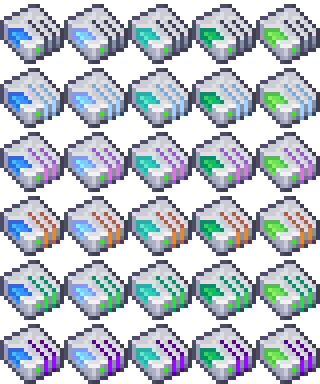
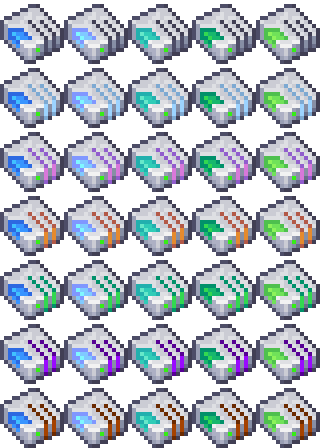
docs(guide): 补雕凿类型切图与表格行
- 源图换成 5x7（含雕凿行），前 6 行逐像素未变
- 切出 5 张 pattern_disk_chiseling_<tier>.png（128x128，与既有规格一致）
- 指南中英两份表格各加雕凿行，正文括注删除
- README 计数 30->35 张、网格 5x6->5x7

diff --git a/src/main/resources/assets/ae2_pattern_disk/ae2guide/items-blocks-machines/pattern_disks.md b/src/main/resources/assets/ae2_pattern_disk/ae2guide/items-blocks-machines/pattern_disks.md
@@ -38,7 +38,7 @@ Patterns can be written with the [ME Pattern Transferer](pattern_transferer.md),
 
 ## Pattern types
 
-A disk accepts one pattern type only. Crafting, processing, smithing and stonecutting patterns each lock the disk to a matching type; with AdvancedAE installed, its advanced processing pattern locks the disk to a type of its own as well. Rechiseled: Applied Energistics' chiseling pattern does the same - it is neither a crafting nor a processing pattern, so it gets a type of its own too (its row is missing from the table below until its corner marks are cut).
+A disk accepts one pattern type only. Crafting, processing, smithing and stonecutting patterns each lock the disk to a matching type; with AdvancedAE installed, its advanced processing pattern locks the disk to a type of its own as well. Rechiseled: Applied Energistics' chiseling pattern does the same - it is neither a crafting nor a processing pattern, so it gets a type of its own too.
 
 The table below shows every combination of type and capacity: rows are pattern types and where they come from, columns are disk capacities. The base layer is the same for every tier; the capacity layer changes with the capacity, and the corner mark changes with the type, so the mark tells you which kind of pattern a disk holds.
 
@@ -50,6 +50,7 @@ The table below shows every combination of type and capacity: rows are pattern t
 | Smithing | Applied Energistics 2 | ![](/assets/pattern_disk_types/pattern_disk_smithing_1k.png) | ![](/assets/pattern_disk_types/pattern_disk_smithing_4k.png) | ![](/assets/pattern_disk_types/pattern_disk_smithing_16k.png) | ![](/assets/pattern_disk_types/pattern_disk_smithing_64k.png) | ![](/assets/pattern_disk_types/pattern_disk_smithing_256k.png) |
 | Stonecutting | Applied Energistics 2 | ![](/assets/pattern_disk_types/pattern_disk_stonecutting_1k.png) | ![](/assets/pattern_disk_types/pattern_disk_stonecutting_4k.png) | ![](/assets/pattern_disk_types/pattern_disk_stonecutting_16k.png) | ![](/assets/pattern_disk_types/pattern_disk_stonecutting_64k.png) | ![](/assets/pattern_disk_types/pattern_disk_stonecutting_256k.png) |
 | Advanced Processing | AdvancedAE | ![](/assets/pattern_disk_types/pattern_disk_adv_processing_1k.png) | ![](/assets/pattern_disk_types/pattern_disk_adv_processing_4k.png) | ![](/assets/pattern_disk_types/pattern_disk_adv_processing_16k.png) | ![](/assets/pattern_disk_types/pattern_disk_adv_processing_64k.png) | ![](/assets/pattern_disk_types/pattern_disk_adv_processing_256k.png) |
+| Chiseling | Rechiseled: Applied Energistics | ![](/assets/pattern_disk_types/pattern_disk_chiseling_1k.png) | ![](/assets/pattern_disk_types/pattern_disk_chiseling_4k.png) | ![](/assets/pattern_disk_types/pattern_disk_chiseling_16k.png) | ![](/assets/pattern_disk_types/pattern_disk_chiseling_64k.png) | ![](/assets/pattern_disk_types/pattern_disk_chiseling_256k.png) |
 
 ## Marks
 

diff --git a/src/main/resources/assets/ae2_pattern_disk/ae2guide/_zh_cn/items-blocks-machines/pattern_disks.md b/src/main/resources/assets/ae2_pattern_disk/ae2guide/_zh_cn/items-blocks-machines/pattern_disks.md
@@ -38,7 +38,7 @@ item_ids:
 
 ## 样板类型
 
-一张磁盘只接受一种样板类型。合成、处理、锻造、切石四种样板各自锁定对应的磁盘类型；装了 AdvancedAE 时，它的高级处理样板同样锁定并显示为独立类型。Rechiseled: Applied Energistics 的雕凿样板也一样——它既不是合成样板也不是处理样板，所以同样占一种独立类型（它的整行要等角标切图备齐后才会出现在下表里）。
+一张磁盘只接受一种样板类型。合成、处理、锻造、切石四种样板各自锁定对应的磁盘类型；装了 AdvancedAE 时，它的高级处理样板同样锁定并显示为独立类型。Rechiseled: Applied Energistics 的雕凿样板也一样——它既不是合成样板也不是处理样板，所以同样占一种独立类型。
 
 下表按「类型 × 容量」列出每一种组合的外观：行是样板类型及其来源，列是磁盘容量。五种容量的底图完全相同，只有容量层随容量变，右上角的角标随类型变，所以看角标颜色就知道盘里装的是哪一类样板。
 
@@ -50,6 +50,7 @@ item_ids:
 | 锻造 | Applied Energistics 2 | ![](/assets/pattern_disk_types/pattern_disk_smithing_1k.png) | ![](/assets/pattern_disk_types/pattern_disk_smithing_4k.png) | ![](/assets/pattern_disk_types/pattern_disk_smithing_16k.png) | ![](/assets/pattern_disk_types/pattern_disk_smithing_64k.png) | ![](/assets/pattern_disk_types/pattern_disk_smithing_256k.png) |
 | 切石 | Applied Energistics 2 | ![](/assets/pattern_disk_types/pattern_disk_stonecutting_1k.png) | ![](/assets/pattern_disk_types/pattern_disk_stonecutting_4k.png) | ![](/assets/pattern_disk_types/pattern_disk_stonecutting_16k.png) | ![](/assets/pattern_disk_types/pattern_disk_stonecutting_64k.png) | ![](/assets/pattern_disk_types/pattern_disk_stonecutting_256k.png) |
 | 高级处理 | AdvancedAE | ![](/assets/pattern_disk_types/pattern_disk_adv_processing_1k.png) | ![](/assets/pattern_disk_types/pattern_disk_adv_processing_4k.png) | ![](/assets/pattern_disk_types/pattern_disk_adv_processing_16k.png) | ![](/assets/pattern_disk_types/pattern_disk_adv_processing_64k.png) | ![](/assets/pattern_disk_types/pattern_disk_adv_processing_256k.png) |
+| 雕凿 | Rechiseled: Applied Energistics | ![](/assets/pattern_disk_types/pattern_disk_chiseling_1k.png) | ![](/assets/pattern_disk_types/pattern_disk_chiseling_4k.png) | ![](/assets/pattern_disk_types/pattern_disk_chiseling_16k.png) | ![](/assets/pattern_disk_types/pattern_disk_chiseling_64k.png) | ![](/assets/pattern_disk_types/pattern_disk_chiseling_256k.png) |
 
 ## 标记
 

diff --git a/README.md b/README.md
@@ -177,7 +177,7 @@ All items are available in the dedicated creative tab **AE2 Pattern Disk**.
 
 The mod ships a GuideME guide (in `assets/ae2_pattern_disk/ae2guide/`) covering the pattern disks (all five tiers on one page), the pattern disk provider (block and panel forms), the pattern transferer, the efficient molecular assembler, the batch assembler, the pattern disk encoding terminal and the pattern disk management terminal. Of the six machine GUIs, the encoding and management terminals declare a `helpTopic` in their screen JSON, so those two link to their guide pages straight from the screen.
 
-The pattern disk page's type table uses the 30 images under `ae2_pattern_disk/ae2guide/assets/pattern_disk_types/`, cut from the 5x6 grid of the source render kept as `ae2_pattern_disk/ae2guide/assets/pattern_disk_types.png` (rows: untyped, crafting, processing, smithing, stonecutting, AdvancedAE's advanced processing; columns: 1k, 4k, 16k, 64k, 256k). Each cell is resized to 128x128, because GuideME draws inline images at a quarter of their size - these show as 32x32. Slice names follow the model and lang-key suffix, so `smithing` maps to `pattern_disk_type_smithing_table.png` and `adv_processing` to `pattern_disk_type_adv.png`.
+The pattern disk page's type table uses the 35 images under `ae2_pattern_disk/ae2guide/assets/pattern_disk_types/`, cut from the 5x7 grid of the source render kept as `ae2_pattern_disk/ae2guide/assets/pattern_disk_types.png` (rows: untyped, crafting, processing, smithing, stonecutting, AdvancedAE's advanced processing, Rechiseled: Applied Energistics' chiseling; columns: 1k, 4k, 16k, 64k, 256k). Each cell is resized to 128x128, because GuideME draws inline images at a quarter of their size - these show as 32x32. Slice names follow the model and lang-key suffix, so `smithing` maps to `pattern_disk_type_smithing_table.png` and `adv_processing` to `pattern_disk_type_adv.png`.
 
 Guide image references must not go up more directory levels than the page has, since relative paths are resolved against the page id - and that id is language-neutral, the `_zh_cn/` directory only supplies a translated copy of the same page. Use a path relative to the guide content root instead, such as `/assets/pattern_disk_types/pattern_disk_crafting_1k.png` - the leading slash only takes the reference out of page-relative resolution, and GuideME itself prefixes the content root (`ae2guide`), so it never depends on the depth of the containing page.
 
